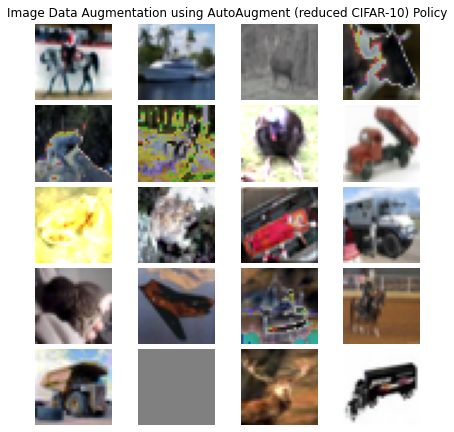
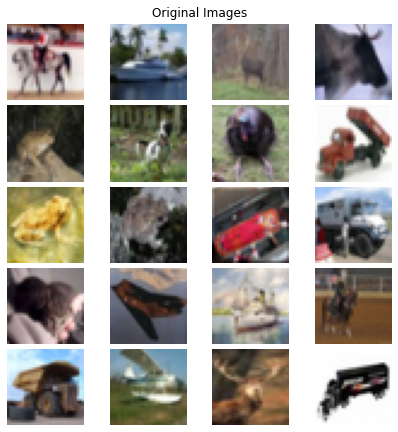
Fix image size related hparam in TFDS PolicyAugmentation example

diff --git a/image_augmentation/image/README.md b/image_augmentation/image/README.md
@@ -99,24 +99,28 @@ import tensorflow as tf
 import tensorflow_datasets as tfds
 from image_augmentation.image import PolicyAugmentation, autoaugment_policy
 
+# load CIFAR-10 as TFDS pipeline
 ds = tfds.load('cifar10', split='train', as_supervised=True)
 
+# use AutoAugment policy for CIFAR-10
 cifar10_policy = autoaugment_policy("reduced_cifar10")
-augmenter = PolicyAugmentation(cifar10_policy)
+augmenter = PolicyAugmentation(cifar10_policy, translate_max=16, cutout_max_size=16) # set hyper params for 32x32 images
 
+# take a subset of 20 images only
 subset_size = 20
 ds = ds.take(subset_size)
 
 original_images = [image for image in ds]
-show_images(original_images)
+show_images(original_images) # show original images
 
 def map_fn(image, label):
     augmented_image = tf.py_function(augmenter, [image], image.dtype)
     return augmented_image, label
+# apply augmentation on the images
 aug_ds = ds.map(map_fn, tf.data.experimental.AUTOTUNE)
 
 augmented_images = [image for image, label in aug_ds]
-show_images(augmented_images)
+show_images(augmented_images) # show augmented images
 ```
 
 ![Original Images](../../images/cifar10_images.png)
